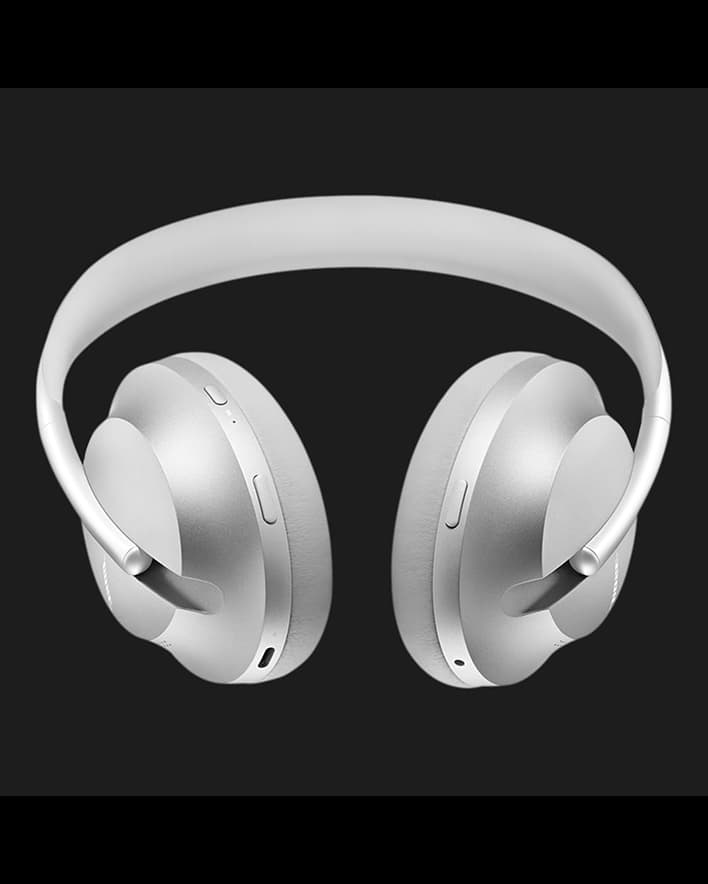
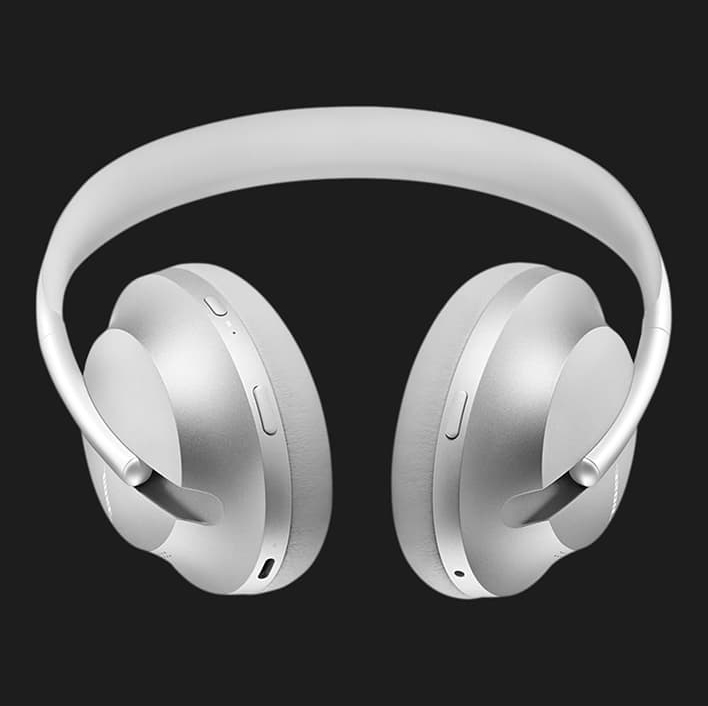
fixed img from options section

diff --git a/src/css/components/options.css b/src/css/components/options.css
@@ -1,5 +1,7 @@
 .opt-container {
-  padding-right: 0;
+  @media screen and (min-width: 1440px) {
+    padding-right: 0;
+  }
 }
 
 .opt-title {
@@ -19,6 +21,7 @@
 .product-image img {
   width: 280px;
   height: 265px;
+  object-fit: cover;
   transition: opacity 0.3s ease-in-out;
   @media screen and (min-width: 768px) {
     width: 648px;
